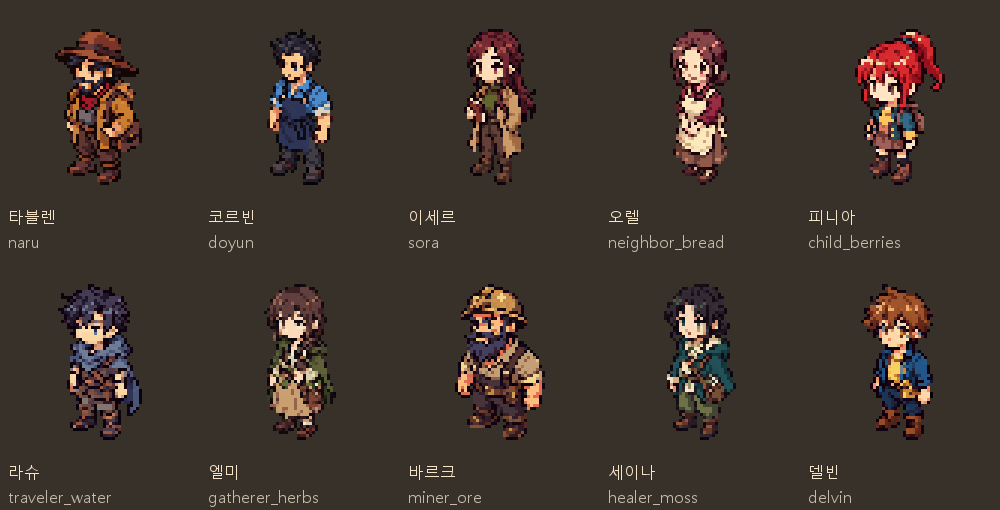
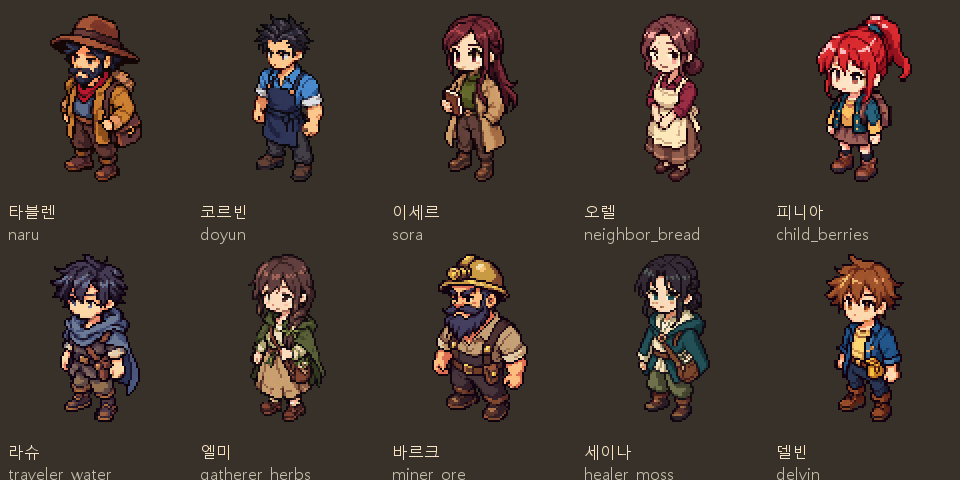
[art] NPC 과도한 축소를 보정하고 원본 디테일 보존

diff --git a/docs/그림_작업/받은그림/개인_NPC_등각/픽셀_정리.py b/docs/그림_작업/받은그림/개인_NPC_등각/픽셀_정리.py
@@ -6,7 +6,7 @@ NAMES={'naru':'타블렌','doyun':'코르빈','sora':'이세르','neighbor_bread
 OUT=ROOT/'픽셀_정리';OUT.mkdir(exist_ok=True)
 rows=[]
 font=ImageFont.truetype('C:/Windows/Fonts/malgun.ttf',16)
-sheet=Image.new('RGB',(1000,510),'#383129');draw=ImageDraw.Draw(sheet)
+sheet=Image.new('RGB',(960,480),'#383129');draw=ImageDraw.Draw(sheet)
 for i,(key,name) in enumerate(NAMES.items()):
     source=ROOT/'생성_원본'/(key+'.png')
     if not source.exists():continue
@@ -14,25 +14,27 @@ for i,(key,name) in enumerate(NAMES.items()):
     mask=im.getchannel('A').point(lambda a:255 if a>=128 else 0)
     bbox=mask.getbbox();assert bbox
     im.putalpha(mask);im=im.crop(bbox)
-    height=52
+    height=84
     width=round(im.width*height/im.height)
-    assert width<=60,(key,width)
+    assert width<=90,(key,width)
     im=im.resize((width,height),Image.Resampling.NEAREST)
     mask=im.getchannel('A')
-    rgb=im.convert('RGB').quantize(colors=48,method=Image.Quantize.MEDIANCUT,dither=Image.Dither.NONE).convert('RGB').convert('RGBA')
+    opaque_rgb=im.convert('RGB')
+    opaque_rgb.paste((56,49,41),mask=mask.point(lambda v:255-v))
+    rgb=opaque_rgb.quantize(colors=96,method=Image.Quantize.MEDIANCUT,dither=Image.Dither.NONE).convert('RGB').convert('RGBA')
     rgb.putalpha(mask)
-    sprite=Image.new('RGBA',(64,64));sprite.alpha_composite(rgb,((64-width)//2,60-height))
-    sprite.putdata([(r,g,b,a) if a else (0,0,0,0) for r,g,b,a in sprite.getdata()])
-    dest=OUT/(key+'_south_west.png');sprite.save(dest)
-    assert sprite.size==(64,64)
-    assert set(sprite.getchannel('A').getdata())<={0,255}
-    assert len({p[:3] for p in sprite.getdata() if p[3]})<=48
-    rows.append({'id':key,'name':name,'direction':'south-west','file':dest.relative_to(ROOT).as_posix(),'size':[64,64],'feet':[32,60],'opaque_bbox':sprite.getbbox(),'source_sha256':hashlib.sha256(source.read_bytes()).hexdigest(),'sha256':hashlib.sha256(dest.read_bytes()).hexdigest(),'status':'static_candidate_not_runtime'})
-    x=(i%5)*200;y=(i//5)*255
-    sheet.paste(sprite.resize((192,192),Image.Resampling.NEAREST),(x+4,y+5),sprite.resize((192,192),Image.Resampling.NEAREST))
-    draw.text((x+8,y+205),name,font=font,fill='#f6e5c8')
-    draw.text((x+8,y+230),key,font=font,fill='#c5bdab')
+    sprite=Image.new('RGBA',(96,96));sprite.alpha_composite(rgb,((96-width)//2,90-height))
+    sprite.putdata([(r,g,b,a) if a else (0,0,0,0) for r,g,b,a in sprite.get_flattened_data()])
+    dest=OUT/(key+'_south_west_96.png');sprite.save(dest)
+    assert sprite.size==(96,96)
+    assert set(sprite.getchannel('A').get_flattened_data())<={0,255}
+    assert len({p[:3] for p in sprite.get_flattened_data() if p[3]})<=96
+    rows.append({'id':key,'name':name,'direction':'south-west','file':dest.relative_to(ROOT).as_posix(),'size':[96,96],'feet':[48,90],'opaque_bbox':sprite.getbbox(),'source_sha256':hashlib.sha256(source.read_bytes()).hexdigest(),'sha256':hashlib.sha256(dest.read_bytes()).hexdigest(),'status':'corrected_static_candidate_not_runtime'})
+    x=(i%5)*192;y=(i//5)*240
+    sheet.paste(sprite.resize((192,192),Image.Resampling.NEAREST),(x,y+2),sprite.resize((192,192),Image.Resampling.NEAREST))
+    draw.text((x+8,y+200),name,font=font,fill='#f6e5c8')
+    draw.text((x+8,y+222),key,font=font,fill='#c5bdab')
 sheet.save(ROOT/'전신_비교.png')
-(ROOT/'후보_목록.json').write_text(json.dumps({'status':'static_candidate_not_runtime','assets':rows},ensure_ascii=False,indent=2)+'\n',encoding='utf-8')
-(ROOT/'검사_결과.json').write_text(json.dumps({'count':len(rows),'failures':0,'checks':['64x64','binary_alpha','transparent_RGB_zero','opaque_colors<=48','feet_bottom60','sha256'],'runtime_connected':False,'animation':False},ensure_ascii=False,indent=2)+'\n',encoding='utf-8')
+(ROOT/'후보_목록.json').write_text(json.dumps({'status':'corrected_static_candidate_not_runtime','assets':rows,'rejected_outputs':{key:'픽셀_정리/'+key+'_south_west.png' for key in NAMES},'reason':'64 canvas / 52px content sampled below source pixel density; faces and outlines lost'},ensure_ascii=False,indent=2)+'\n',encoding='utf-8')
+(ROOT/'검사_결과.json').write_text(json.dumps({'count':len(rows),'failures':0,'checks':['96x96','binary_alpha','transparent_RGB_zero','opaque_colors<=96','feet_bottom90','sha256'],'runtime_connected':False,'animation':False},ensure_ascii=False,indent=2)+'\n',encoding='utf-8')
 print('NPC static candidates',len(rows),'failures 0')

diff --git a/docs/그림_작업/받은그림/개인_NPC_등각/제작_기록.md b/docs/그림_작업/받은그림/개인_NPC_등각/제작_기록.md
@@ -15,12 +15,23 @@
 - 타블렌(naru), 코르빈(doyun), 이세르(sora), 오렐(neighbor_bread), 피니아(child_berries)
 - 라슈(traveler_water), 엘미(gatherer_herbs), 바르크(miner_ore), 세이나(healer_moss), 델빈(delvin)
 
-허용된 Python 정리: 불투명 내용 경계 자르기 → 비율 유지 최근접 축소 →48색 이하 →64×64 투명 캔버스. 하단60px/중앙32px 기준으로 발을 정렬했다. 생성 원본과 기존 초상화는 수정하지 않았다. 전신_비교.png는3배 최근접 확대 미리보기다.
+최초 출력(현재 사용 보류): 허용된 Python 정리: 불투명 내용 경계 자르기 → 비율 유지 최근접 축소 →48색 이하 →64×64 투명 캔버스. 하단60px/중앙32px 기준으로 발을 정렬했다. 생성 원본과 기존 초상화는 수정하지 않았다. 전신_비교.png는3배 최근접 확대 미리보기다.
 
 ## 확인 범위와 다음 연결
 
-- 10장 전부64×64, 알파0/255, 투명RGB0, 불투명48색 이하, 프레임 SHA 기록. 비교표에서 머리·대표 복장·전신 누락/잘림을 확인했다.
+- 최초10장 전부64×64, 알파0/255, 투명RGB0, 불투명48색 이하, 프레임 SHA 기록. 비교표에서 머리·대표 복장·전신 누락/잘림을 확인했다.
 - **남서 방향 정지 후보1장씩이며 게임 미연결.** 애니메이션은 사용자 지시대로 보류했다. 방향별 정지 그림도 아직 없다.
 - 연결_대기.csv는 다음 연결을 위한 목록이다. 후보를 art/actors에 복사하거나 KEYS에 추가하지 않았다. 현재 로더는8방향과 걷기64프레임 완전성을 요구하므로 이 한 방향을 무리하게 기존 걷기 세트로 등록하면 안 된다.
 - 다음 연결에서 resident_id/행상인/튜토리얼/낚시 방문/fishing_owner를 초상화 ID와 대조해 표시 키를 선택하고, 정지 전용 선택 또는 방향 세트 지원 여부를 결정해야 한다. 전용 의상 확인 전 기존 모델을 제거하지 않는다.
 - 초상화 없는 별도 대장장이/추가 정착 주민 전용 외형은 이10명 명단에 포함하지 않았다. 추가 인물은 설정과 실제 노드ID부터 대조한다.
+
+## 출력 품질 보정 (2026-10-11)
+
+사용자가 최종 축소본의 얼굴/옷이 찌그러져 보인다고 지적했다. 최초 크기·알파 검사는 그래픽 가독성을 보증하지 못했으며, 최초 비교표의 품질 확인 판단을 정정한다.
+
+- 최초64×64 캔버스의 내용 높이52px가 생성 원본의 논리 도트 간격보다 작아 눈·수염·손·의상 선이 끊겼다. 최근접 축소 자체도 이 크기에서는 원본 선을 건너뛰었고 48색 제한까지 겹쳤다.
+- 새 선택 후보는 **96×96 캔버스, 내용 높이84px, 발 기준(48,90), 불투명 최대96색**이다. 가로세로 비율을 유지한 최근접 축소이며 흐림/디더링 없이 원본색을 더 보존한다. 투명RGB는0으로 정리한다.
+- 기존 걷기 파일의84/88/92px 캔버스처럼 이미지 캔버스 크기는 별도 값이다. 기존 세계 칸/인물 키/충돌 수치를 이번 보정으로 바꾸지 않는다. 게임에서 실제 표시할 크기·밀도는 연결 시 화면 검증이 필요하다.
+- `픽셀_정리/*_south_west_96.png`10장을 연결 대기 목록과 후보 목록에 선택했다. 원본10장과 이전64 출력은 보존했다. 이전64 출력은 후보 manifest의 rejected_outputs에 기록, `전신_비교_축소문제.png`는 최초 출력 비교 기록이다.
+- `전신_비교.png`는 보정본의2배 최근접 비교표다. `보정_전후.png`에서 세 인물의 이전/보정 출력을 같은2배로 비교한다.
+- 10장 크기/알파/색수/발 하단/원본 해시 보존 확인. 전체 비교표에서 눈·손·수염·옷 선을 재확인했다. **미연결 정지 후보1방향**, 실제 게임 표시 품질은 아직 검증하지 않았다.

diff --git a/.revvy/shared-memory.md b/.revvy/shared-memory.md
@@ -110,3 +110,5 @@ off.
 - 2026-10-11 Codex: 사용자 승인 낚시 물/판자 타일3곳 실행 연결. 충돌은 물/육지띠/부두 구분·부두끝 캐스팅·찌방향/육지 NPC 경로·도로/확장/자연물 피함, 기존 floor shader+normal+시간조명 유지. 기존 낚시911/타일70 실패0 GPU캡처, 개인 NPC10명 정지 후보 후속제작·애니메이션 보류.
 
 - 2026-10-11 Codex: 낚시 연결 c9047deb main 푸시 완료(전체862로드실패0/가져오기2회 SCRIPT0). 공용손님8/직원3/주인공 이미 연결 대조, 이름있는 NPC10명 남서 정지 전신후보 각각 내장image_gen 생성·허용Python64×64/48색/발32,60 정리·검사10통과·연결대기CSV/프롬프트/원본 저장. 후보만, NPC실행/8방향/애니메이션후속.
+
+- 2026-10-11 Codex: 사용자 NPC 출력 찌그러짐 지적. 최초64×64/내용52px/48색 출력 사용 보류(기계적 검사는 가독성 보증 불가). 원본10 보존, 내용84px/96×96/96색 이하/발48,90 보정10 후보 선택·비교표/연결대기CSV/manifest 갱신. 게임미연결·표시 크기/방향은 후속 검증.

diff --git a/docs/그림_작업/정적_그림_누락_점검.md b/docs/그림_작업/정적_그림_누락_점검.md
@@ -70,3 +70,7 @@
 ## 2026-10-11 실행 연결 업데이트
 
 낚시 물/경계21장과 기존 판자3장을 세 낚시터의 실제 배치·충돌·낚시에 연결했다. [게임 연결 기록](받은그림/낚시_타일/게임_연결.md) 참조. 위 후보 미연결 기록은 제작 당시 상태다. 개인 NPC10명 남서 방향 전신 정지 후보 완성·게임 미연결·8방향/애니메이션 후속. [제작 기록](받은그림/개인_NPC_등각/제작_기록.md) 참조.
+
+### 개인 NPC 출력 보정
+
+10/11 사용자 축소 품질 지적으로 최초64×64/내용52 출력 사용 보류. 개인_NPC_등각의 선택 후보를96×96/내용84·96색 이하로 변경, 원본/이전 출력 보존. 전신_비교와 연결_대기.csv는 보정본 기준이며 실제 게임 연결/표시 배율 검증은 후속.
